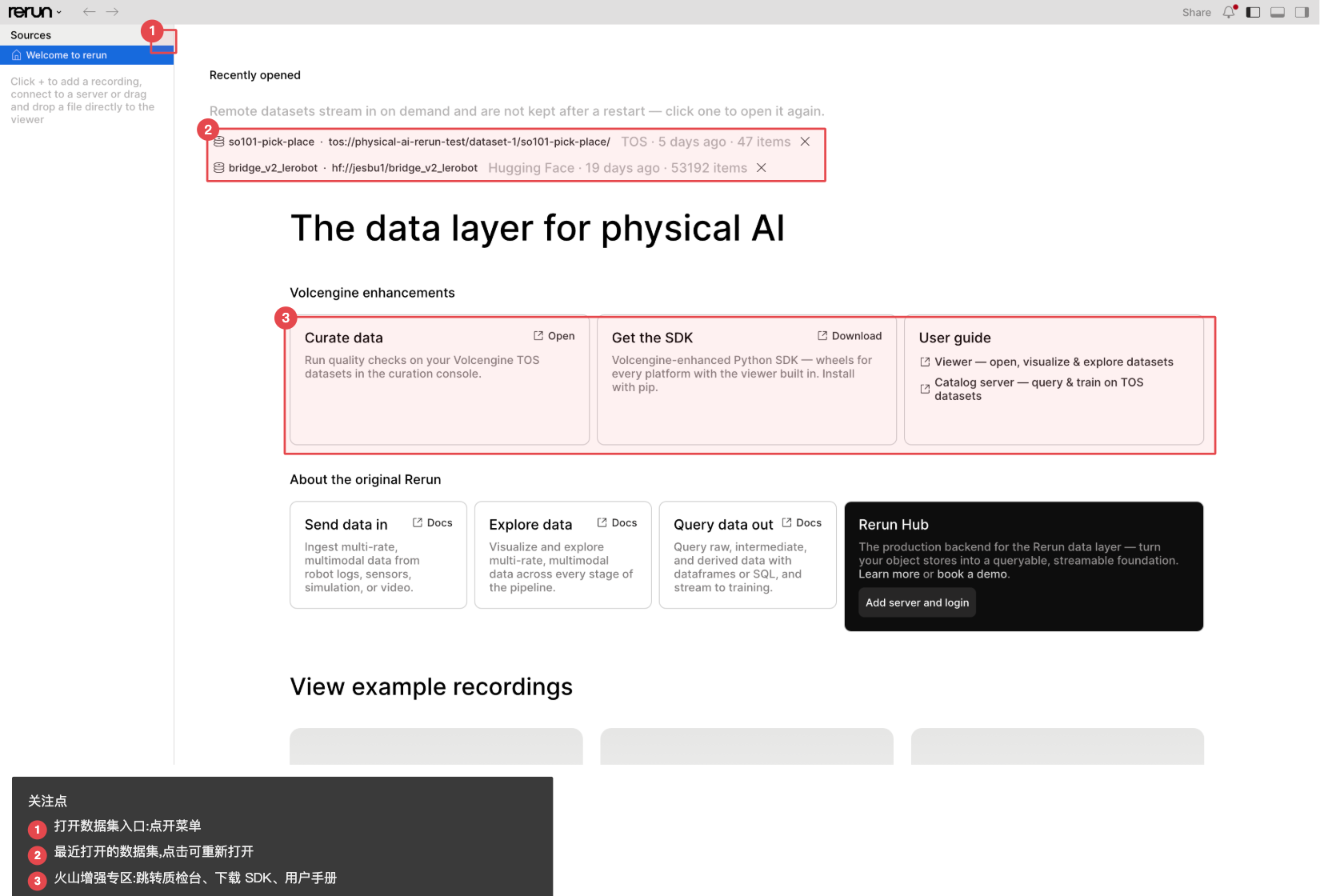
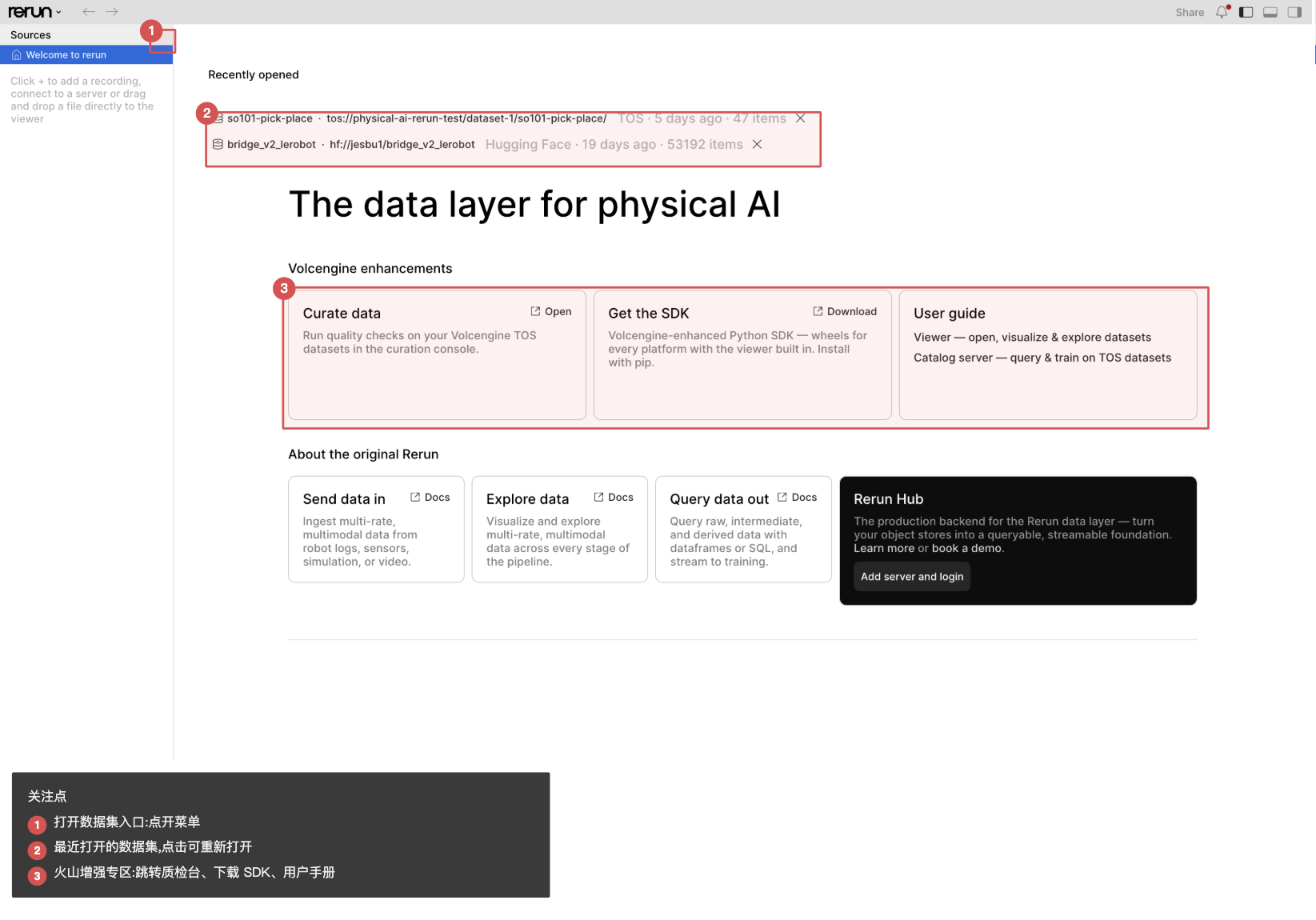
Welcome screen: drop the recents explainer line; refresh the screenshot
'Remote datasets stream in on demand and are not kept after a
restart…' — the list is self-explanatory; the caveat lives in the
user guide. The guide's welcome screenshot is re-taken to match.

diff --git a/crates/viewer/re_viewer/src/ui/welcome_screen/recent_section.rs b/crates/viewer/re_viewer/src/ui/welcome_screen/recent_section.rs
@@ -32,14 +32,6 @@ pub fn recent_datasets_ui(ui: &mut egui::Ui, recents: &[RecentDataset]) -> Optio
             .line_height(Some(32.0))
             .text_style(DesignTokens::welcome_screen_example_title()),
     ));
-    ui.add(egui::Label::new(
-        egui::RichText::new(
-            "Remote datasets stream in on demand and are not kept after a restart — \
-             click one to open it again.",
-        )
-        .color(ui.visuals().weak_text_color())
-        .text_style(DesignTokens::welcome_screen_body()),
-    ));
     ui.add_space(8.0);
 
     for (index, recent) in recents.iter().enumerate() {
